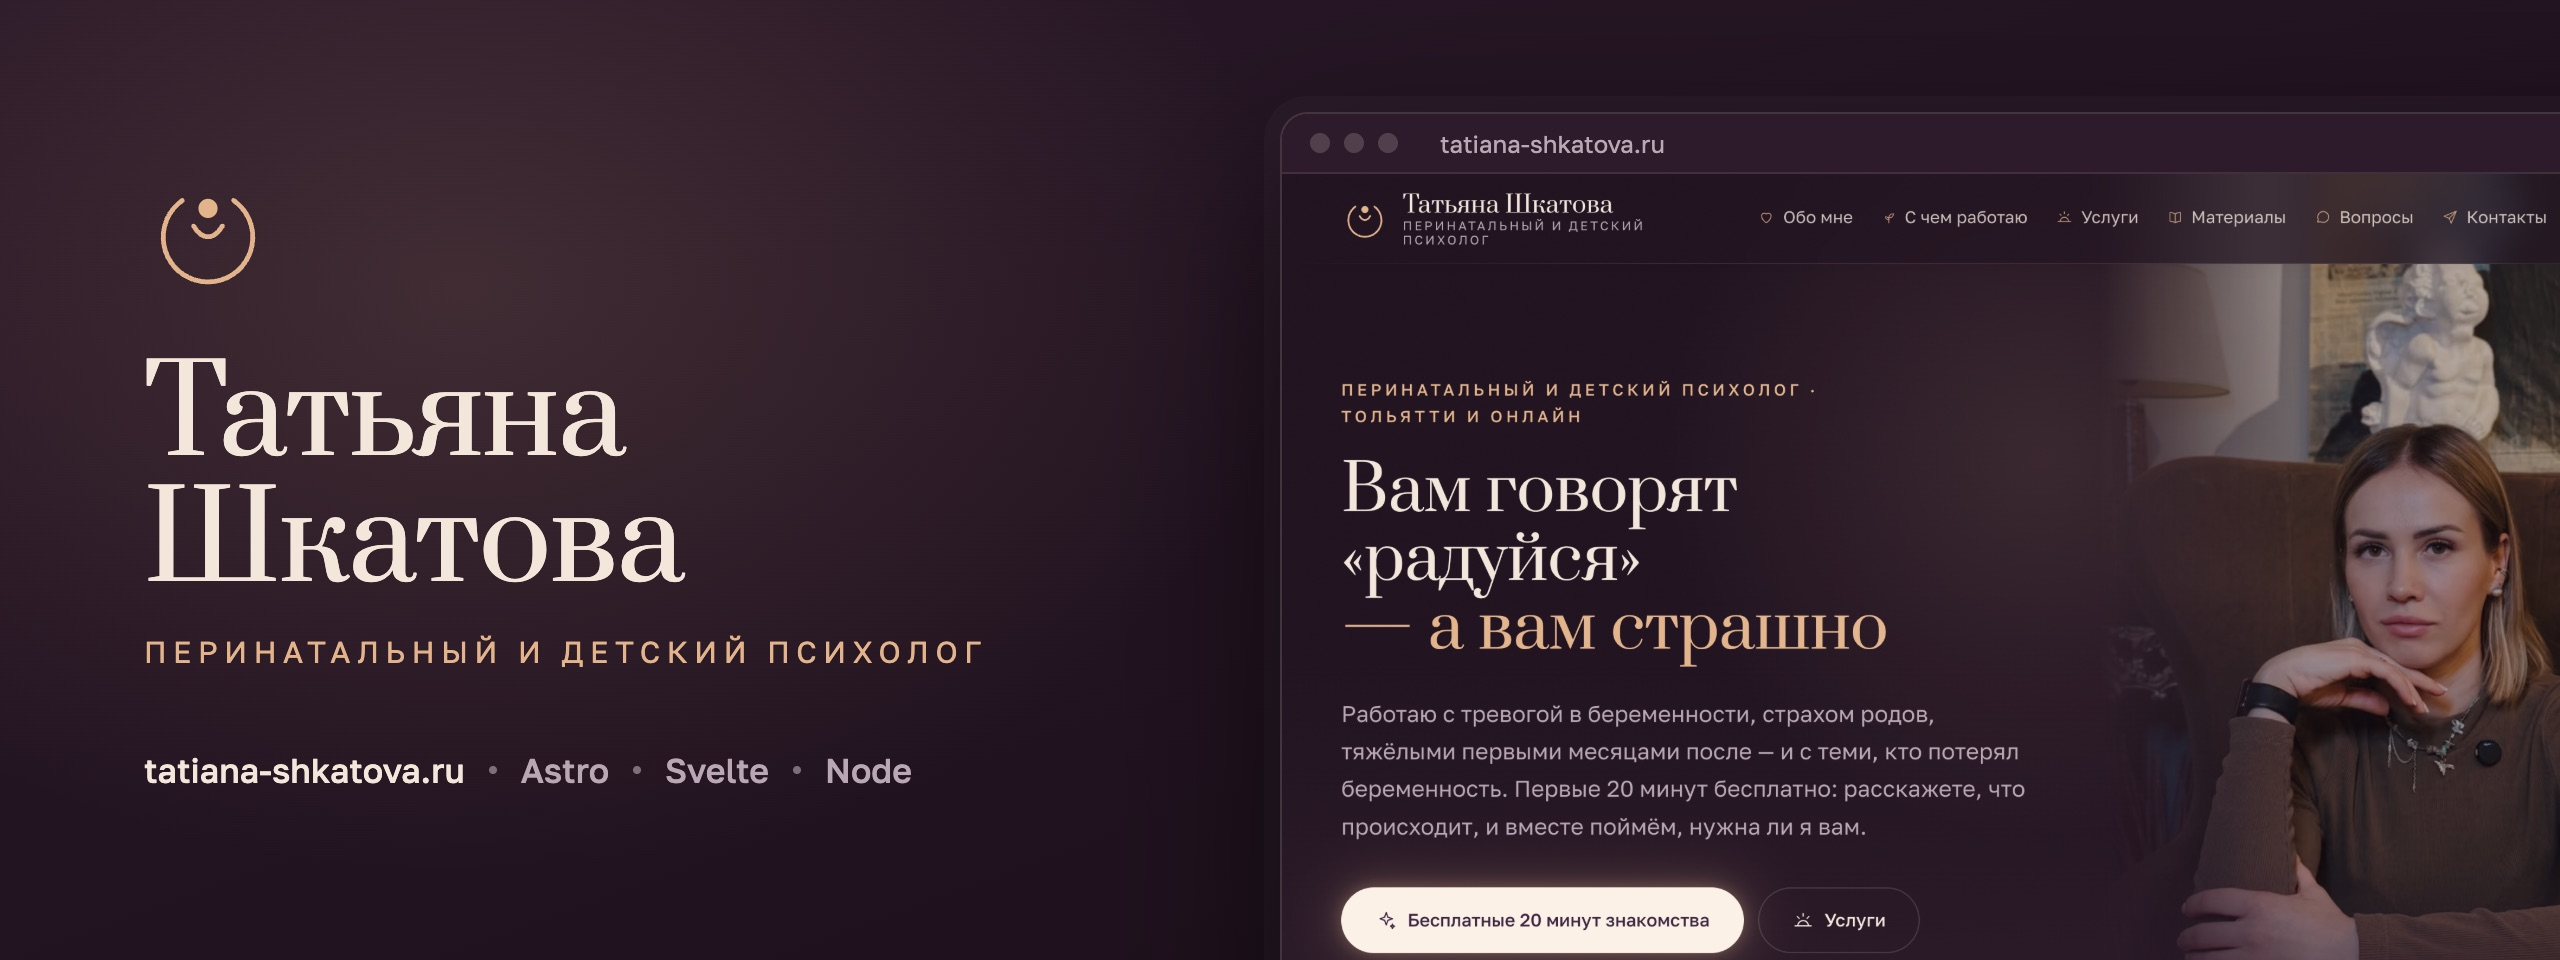
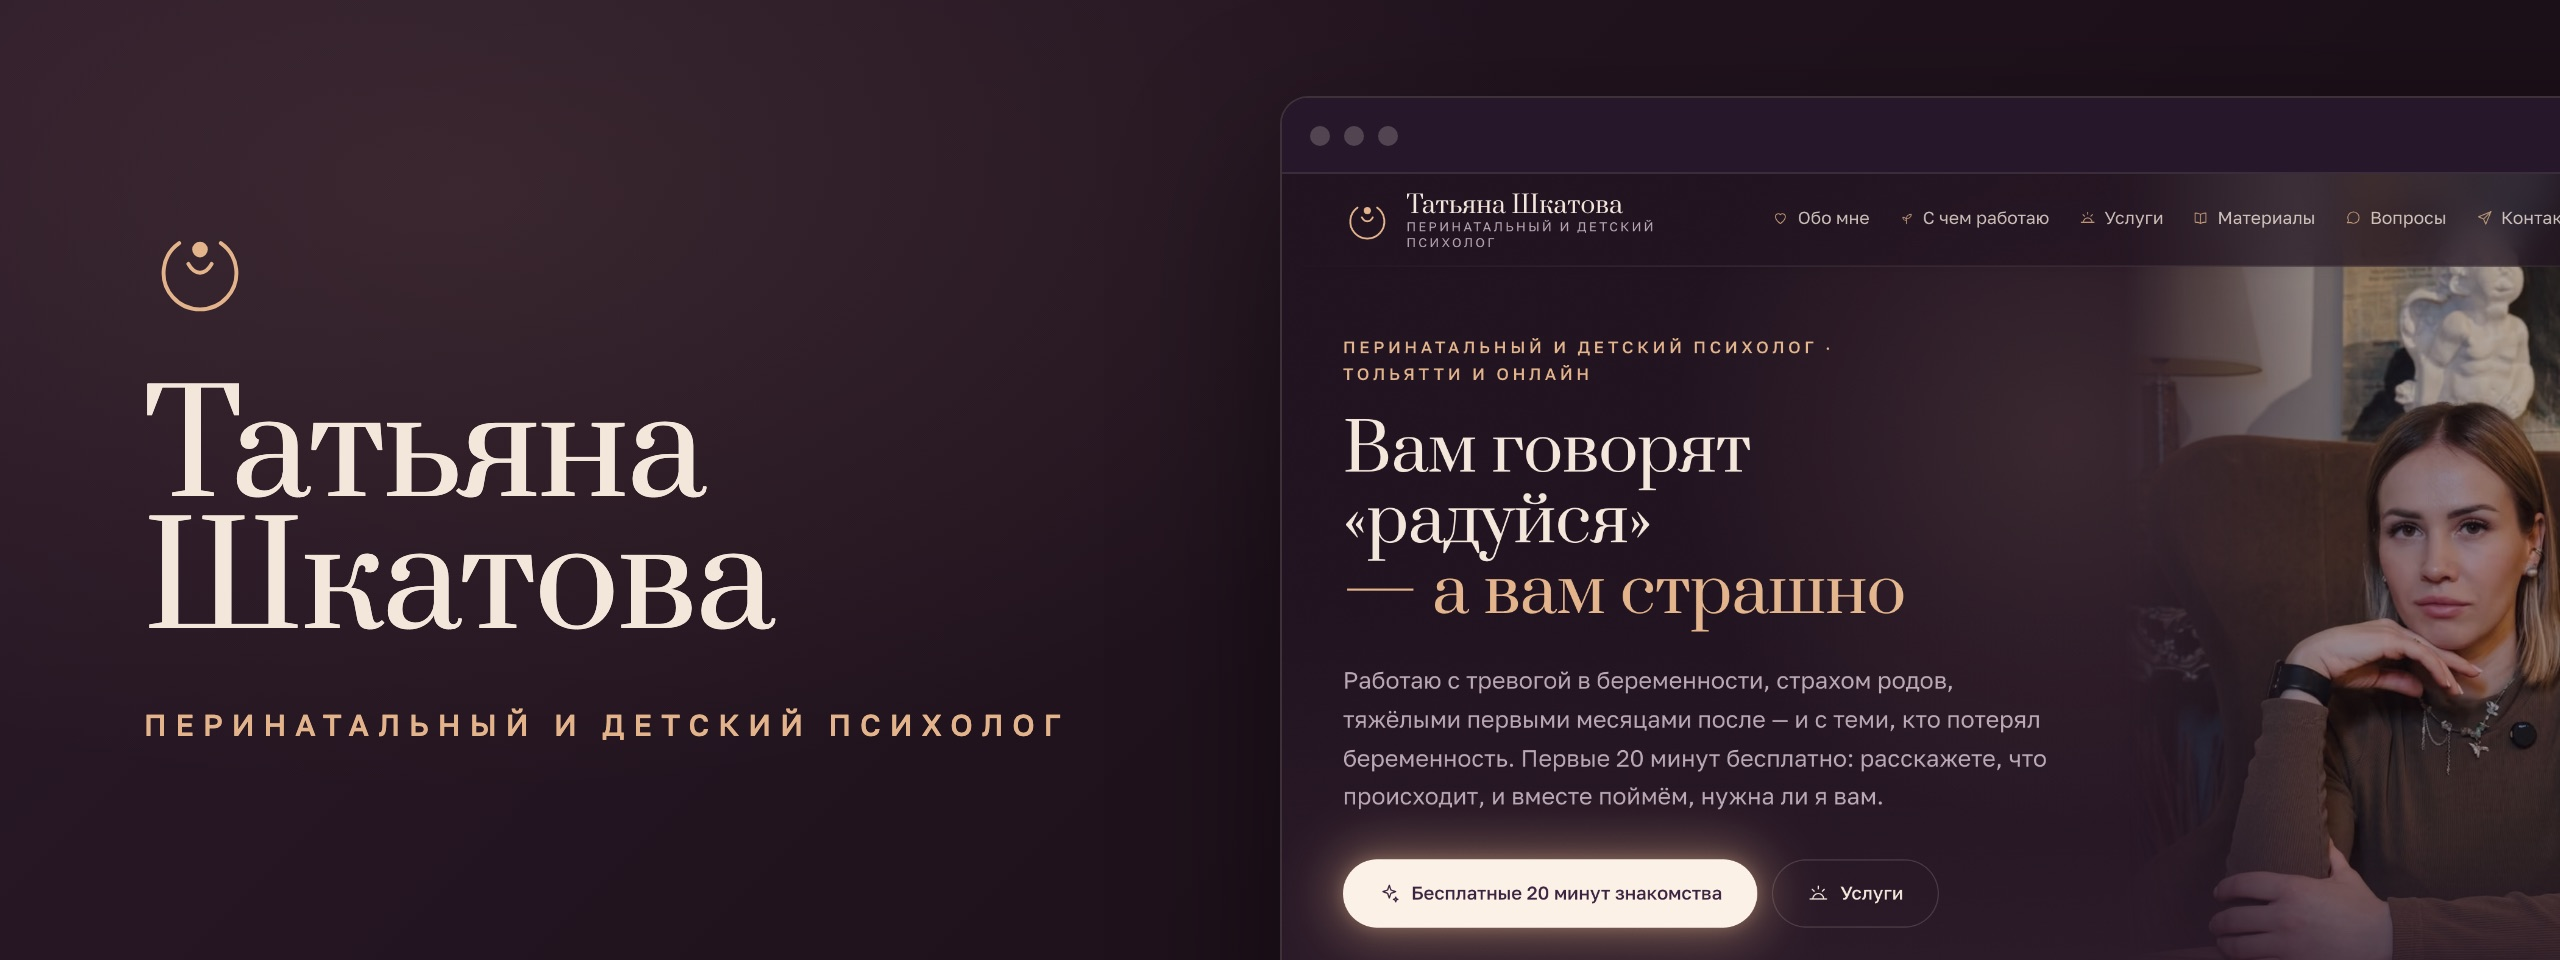
docs: redo the readme in the codenames and taplist style
Language flags above the banner, an English banner, a tagline and screenshots of the home page and the assistant chat. New sections describe what is on the site and how the assistant works; the deployment section names the containers and the rollback. The banners no longer list the stack or the site URL.

diff --git a/README.ru.md b/README.ru.md
@@ -1,4 +1,9 @@
 <p align="center">
[2 lines of base64/hex data omitted]
+</p>
+
+<p align="center">
 	<a href="https://tatiana-shkatova.ru"><img src=".github/assets/banner.jpg" alt="Татьяна Шкатова, перинатальный и детский психолог" width="100%"></a>
 </p>
 
@@ -11,15 +16,29 @@
 	<a href="LICENSE"><img src="https://img.shields.io/github/license/aimuzov-projects/shkatova-psychologist" alt="License"></a>
 </p>
 
-<p align="center"><a href="README.md">English</a> · <b>Русский</b></p>
+<h3 align="center">Сайт перинатального психолога</h3>
+<p align="center">Статичный сайт с ИИ-ассистентом, который готовит к первой встрече и отправляет выжимку в Telegram</p>
 
-Сайт перинатального психолога Татьяны Шкатовой: [tatiana-shkatova.ru](https://tatiana-shkatova.ru).
+<table>
+	<tr>
+		<td width="50%" align="center"><img src=".github/assets/home.jpg" alt="Главная"><br><b>Сайт</b> для клиенток</td>
+		<td width="50%" align="center"><img src=".github/assets/chat.jpg" alt="Чат с ассистентом"><br><b>Ассистент</b> перед первой встречей</td>
+	</tr>
+</table>
 
-Статичный сайт на [Astro](https://astro.build), из интерактива только ИИ-ассистент на Svelte. Он помогает подготовиться к первой встрече и отправляет Татьяне выжимку разговора. Сервис ассистента (`src/backend/`) написан на Node без зависимостей: модель вызывается через OpenRouter, выжимки уходят в Telegram.
+Живёт на [tatiana-shkatova.ru](https://tatiana-shkatova.ru). Статичный сайт на [Astro](https://astro.build) с единственным островом на Svelte, чатом ассистента, и маленький сервис (`src/backend/`) на Node без зависимостей: модель он вызывает через OpenRouter, выжимки отправляет в Telegram.
+
+## Что внутри
+
+- **Главная** (`/`): обо мне, с чем работаю, услуги и цены, бесплатные материалы, вопросы, контакты. Фото секций на телефоне едут с параллаксом.
+- **Материалы** (`/materials/<slug>/`): бесплатные памятки, у каждой своя страница, описаны в `src/frontend/data/materials.ts`.
+- **Ассистент** (`/chat/`): после согласия расспрашивает о ситуации и отправляет Татьяне выжимку с контактом и запросом. При признаках риска даёт телефоны помощи и с согласия сразу шлёт срочную выжимку, не дожидаясь остального. Переписка живёт только в `sessionStorage` вкладки, на сервере не хранится. Входы в чат выключаются флагом `enabled` в `src/shared/chat.ts`.
+- **Телефон**: открытым в HTML не попадает. В разметке лежит закодированная строка, ссылки из неё собирает `phone-reveal.ts` уже в браузере, так что сборщики без JavaScript номер не видят.
+- **API**: `POST /api/chat` (Server-Sent Events) и `GET /api/health`. Лимиты: 60 сообщений и 10 выжимок в час с одного IP и суточный потолок на весь сервис (`CHAT_DAILY_LIMIT`).
 
 ## Запуск
 
-Нужен Node 26.11.1, эта же версия закреплена в `package.json` и в Dockerfile.
+Стек и раскладка как в [infra-template-site](https://github.com/aimuzov-projects/infra-template-site): Astro + Svelte 5, Prettier, oxlint, stylelint (БЭМ), `node --test`. Node берётся из `mise.toml`, эта же версия закреплена в `package.json` и в Dockerfile.
 
 ```sh
 cp .env.example .env   # заполнить: телефон обязателен, ключи нужны только чату
@@ -28,7 +47,9 @@ npm run dev            # сайт, /api проксируется на localhost:
 npm run chat           # сервис ассистента
 ```
 
-Перед коммитом:
+Без `TELEGRAM_BOT_TOKEN` локальный сервис не отправляет выжимки, а печатает их в консоль.
+
+Перед коммитом те же проверки, что в CI:
 
 ```sh
 npm run format:check && npm run lint:js && npm run lint:css && npm run check && npm test
@@ -44,7 +65,9 @@ npm run format:check && npm run lint:js && npm run lint:css && npm run check && 
 
 ## Выкладка
 
-Пуш в `main` запускает GitHub Actions: сначала проверки, затем вход по SSH на сервер. Там ключ привязан к [`deploy/remote.sh`](deploy/remote.sh), который подтягивает `main` и пересобирает контейнеры из [`deploy/docker-compose.yml`](deploy/docker-compose.yml). Домен обслуживает общий Caddy сервера, `.env` лежит на сервере рядом с репозиторием.
+Сервер projects из [infra-server](https://github.com/aimuzov-projects/infra-server): пуш в `main` запускает `deploy.yml`, тот прогоняет проверки и заходит по SSH. Там ключ привязан к [`deploy/remote.sh`](deploy/remote.sh), который подтягивает `main` и пересобирает контейнеры из [`deploy/docker-compose.yml`](deploy/docker-compose.yml): `shkatova-psychologist` (nginx со статикой) и `shkatova-chat` (ассистент). Из РФ OpenRouter и Telegram не отвечают, поэтому чат ходит наружу через общий VPN-выход из infra-server. Домен, TLS и маршрут `/api` держит общий Caddy. `.env` лежит на сервере в `/srv/shkatova-psychologist`.
+
+Откатить выкладку: сделать `git revert` плохого коммита в `main` и запушить.
 
 ## Лицензия
 

diff --git a/README.md b/README.md
@@ -1,5 +1,10 @@
 <p align="center">
-	<a href="https://tatiana-shkatova.ru"><img src=".github/assets/banner.jpg" alt="Tatiana Shkatova, perinatal and child psychologist" width="100%"></a>
[2 lines of base64/hex data omitted]
+</p>
+
+<p align="center">
+	<a href="https://tatiana-shkatova.ru"><img src=".github/assets/banner.en.jpg" alt="Tatiana Shkatova, perinatal and child psychologist" width="100%"></a>
 </p>
 
 <p align="center">
@@ -11,15 +16,31 @@
 	<a href="LICENSE"><img src="https://img.shields.io/github/license/aimuzov-projects/shkatova-psychologist" alt="License"></a>
 </p>
 
-<p align="center"><b>English</b> · <a href="README.ru.md">Русский</a></p>
+<h3 align="center">Website of a perinatal psychologist</h3>
+<p align="center">A static site with an AI assistant that prepares clients for the first session and sends the summary to Telegram</p>
 
-Website of Tatiana Shkatova, a perinatal psychologist: [tatiana-shkatova.ru](https://tatiana-shkatova.ru). The site itself is in Russian.
+<table>
+	<tr>
+		<td width="50%" align="center"><img src=".github/assets/home.jpg" alt="Home page"><br><b>Site</b> for clients</td>
+		<td width="50%" align="center"><img src=".github/assets/chat.jpg" alt="Assistant chat"><br><b>Assistant</b> before the first session</td>
+	</tr>
+</table>
 
-A static site built with [Astro](https://astro.build). The only interactive part is an AI assistant in Svelte: it helps visitors prepare for the first session and sends Tatiana a summary of the conversation. The assistant service (`src/backend/`) is plain Node with no dependencies: it talks to the model through OpenRouter and delivers summaries via Telegram.
+Lives at [tatiana-shkatova.ru](https://tatiana-shkatova.ru). A static [Astro](https://astro.build) site with a single Svelte island, the assistant chat, plus a small dependency-free Node service (`src/backend/`) that talks to the model through OpenRouter and delivers summaries via Telegram.
 
-## Getting started
+The site and the assistant are in Russian, so the names below are translated.
 
-Requires Node 26.11.1, the same version is pinned in `package.json` and the Dockerfiles.
+## What's inside
+
+- **Home** (`/`): about, topics, services and prices, free materials, FAQ, contacts. Section photos scroll with parallax on phones.
+- **Materials** (`/materials/<slug>/`): free guides, each on its own page, described in `src/frontend/data/materials.ts`.
+- **Assistant** (`/chat/`): after consent it asks about the situation, then sends Tatiana a summary with the contact and the request. On signs of risk it gives crisis lines and, with consent, sends an urgent summary without waiting for the rest. The conversation lives only in the tab's `sessionStorage` and is not stored on the server. The chat entry points can be turned off with `enabled` in `src/shared/chat.ts`.
+- **Phone number**: never in the HTML as is. The markup holds an encoded string, and `phone-reveal.ts` turns it into links in the browser, so scrapers without JavaScript don't see it.
+- **API**: `POST /api/chat` (Server-Sent Events) and `GET /api/health`. Limits: 60 messages and 10 summaries per hour from one IP, plus a daily cap for the whole service (`CHAT_DAILY_LIMIT`).
+
+## Running
+
+Stack and layout follow [infra-template-site](https://github.com/aimuzov-projects/infra-template-site): Astro + Svelte 5, Prettier, oxlint, stylelint (BEM), `node --test`. Node comes from `mise.toml`, the same version is pinned in `package.json` and the Dockerfiles.
 
 ```sh
 cp .env.example .env   # fill in: the phone is required, the keys are only needed by the chat
@@ -28,7 +49,9 @@ npm run dev            # the site, /api is proxied to localhost:8787
 npm run chat           # the assistant service
 ```
 
-Before committing:
+Without `TELEGRAM_BOT_TOKEN` the local service prints summaries to the console instead of sending them.
+
+Before committing, the same checks as in CI:
 
 ```sh
 npm run format:check && npm run lint:js && npm run lint:css && npm run check && npm test
@@ -44,7 +67,9 @@ The build puts a CSP with hashes of Astro's scripts and styles into every page (
 
 ## Deployment
 
-A push to `main` triggers GitHub Actions: checks first, then an SSH login to the server. There the key is bound to [`deploy/remote.sh`](deploy/remote.sh), which pulls `main` and rebuilds the containers from [`deploy/docker-compose.yml`](deploy/docker-compose.yml). The domain is served by the server's shared Caddy, and `.env` lives on the server next to the repository.
+The projects server from [infra-server](https://github.com/aimuzov-projects/infra-server): a push to `main` runs `deploy.yml`, which runs the checks and logs in over SSH. There the key is bound to [`deploy/remote.sh`](deploy/remote.sh), which pulls `main` and rebuilds the containers from [`deploy/docker-compose.yml`](deploy/docker-compose.yml): `shkatova-psychologist` (nginx with the static site) and `shkatova-chat` (the assistant). OpenRouter and Telegram don't answer from Russia, so the chat goes out through the shared VPN exit from infra-server. The domain, TLS and the `/api` route are handled by the shared Caddy. `.env` lives on the server in `/srv/shkatova-psychologist`.
+
+To roll back, `git revert` the bad commit on `main` and push.
 
 ## License
 
